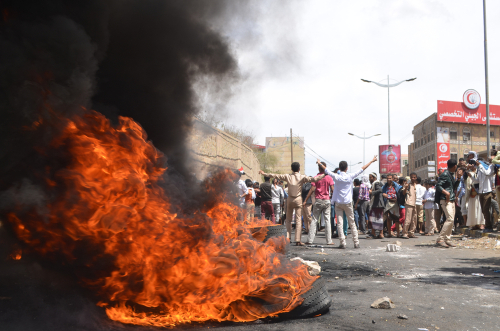
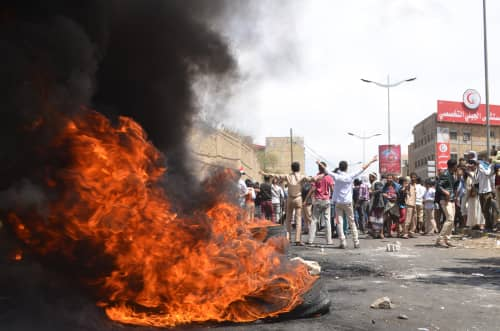
Update to images within asset folder and  change to button within CSS
I have compressed all images within the site as during the validation it was flagging up as performance issues on mobile devices. I also changed the color of the button so that there was a better contrast as this was also highlighted during validation.

diff --git a/assets/css/style.css b/assets/css/style.css
@@ -220,8 +220,8 @@
  /*--button--*/
  
  .button {
-   background-color: rgb(180, 180, 180);
-   border: none;
+   background-color: rgb(0, 0, 0);
+   border: 2px solid var(--offwhite);
    color: var(--offwhite);
    padding: 1.25rem;
    text-align: center;
@@ -236,7 +236,7 @@
 .button:hover {
    background-color: var(--black);
    color: var(--offwhite);
-   border: 2px solid white;
+   border: 4px solid white;
 }
 
 .button-container {
@@ -604,3 +604,11 @@
      margin-right: 0;
    }
  }
+
+ @media screen and (max-width: 1078px) {
+  .embed-responsive-item {
+    width: 100%;
+    height: auto;
+    margin-bottom: 20px;
+  }
+}
